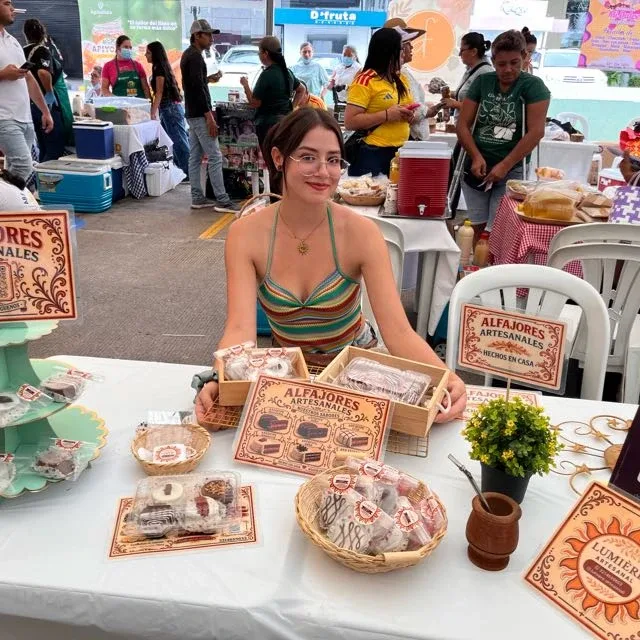
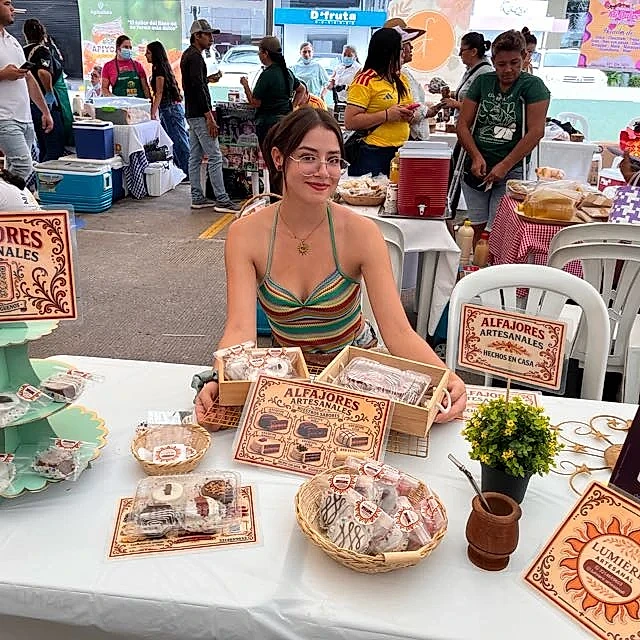
Re-export flavour photos with Lanczos upscale, denoise and sharpening

diff --git a/src/components/Products.jsx b/src/components/Products.jsx
@@ -11,7 +11,7 @@ export default function Products({ draft, onPick }) {
         {FLAVORS.map((f) => (
           <article key={f.id} className="card">
             <div className="card-img">
-              <img src={f.image} alt={`Alfajor ${f.name}`} loading="lazy" width="540" height="450" />
+              <img src={f.image} alt={`Alfajor ${f.name}`} loading="lazy" width="810" height="675" />
               {f.isNew && <span className="badge">Nuevo sabor ✨</span>}
               {draft[f.id] > 0 && <span className="badge in-box">En tu caja: {draft[f.id]}</span>}
             </div>
